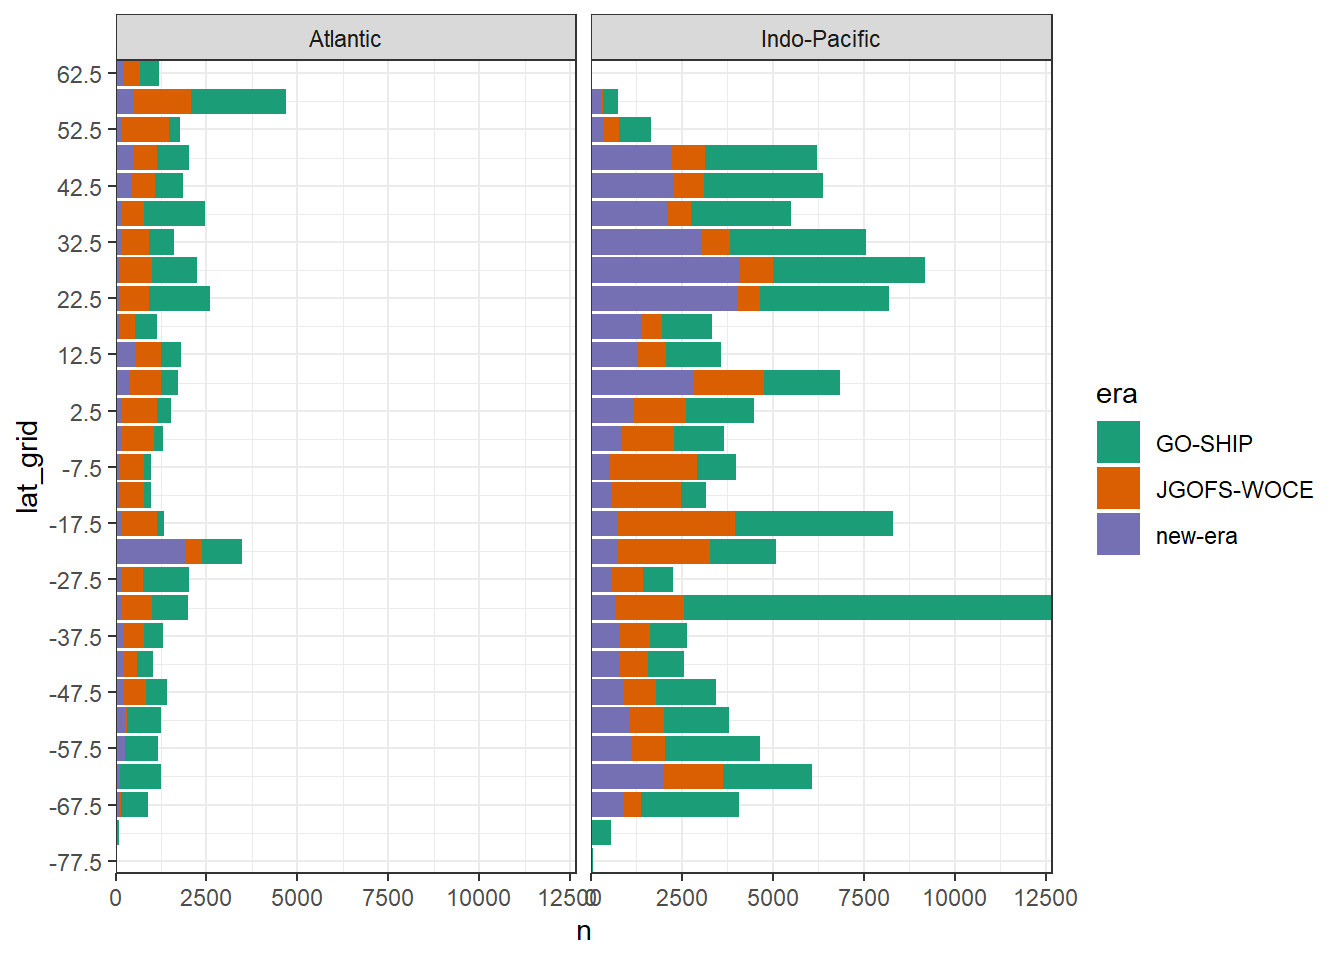
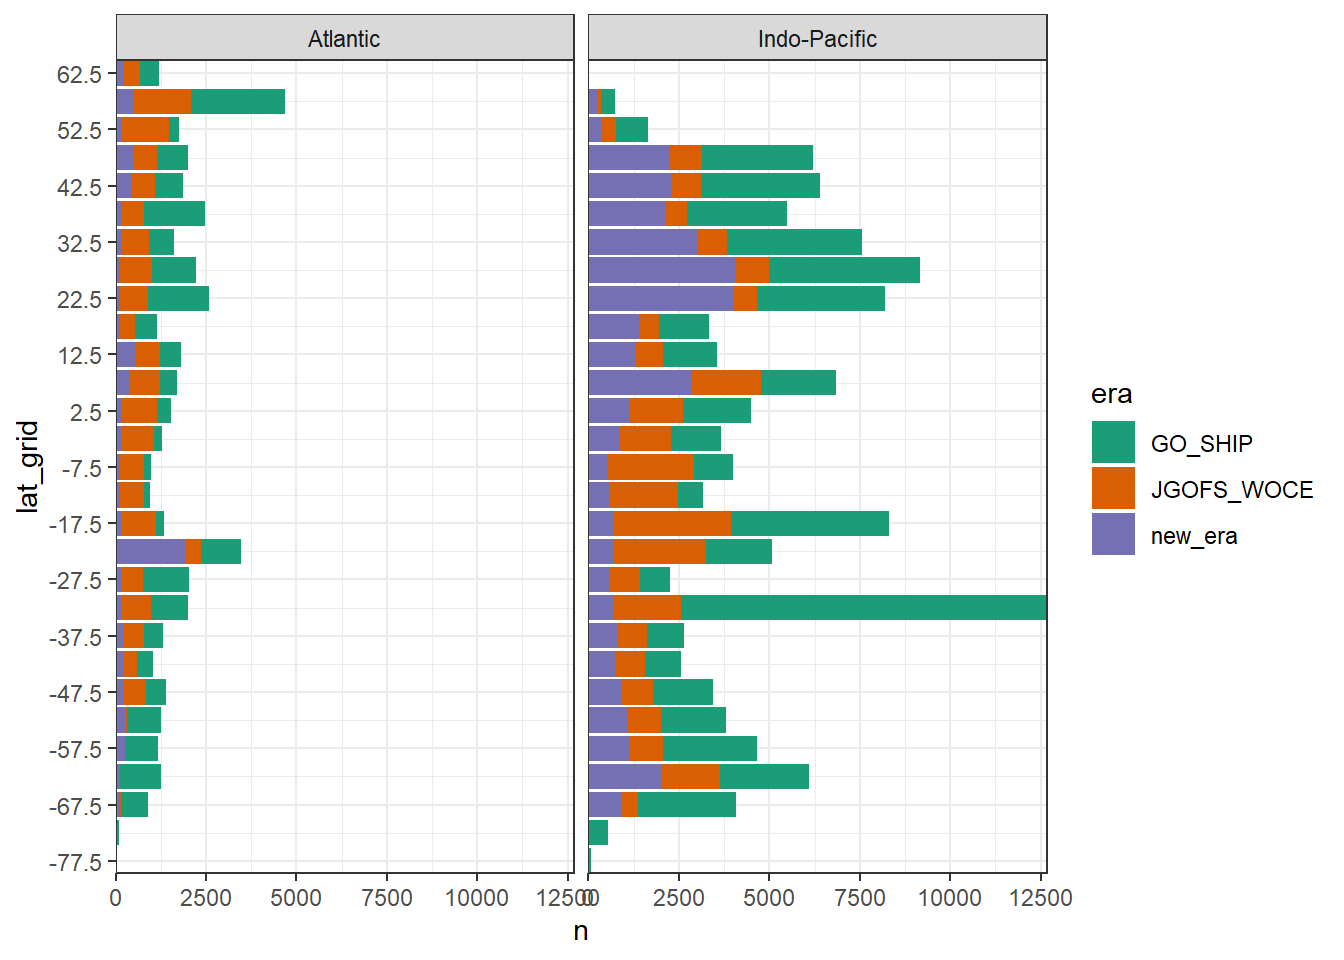
Build site.

diff --git a/docs/read_GLODAPv2_2020.html b/docs/read_GLODAPv2_2020.html
@@ -546,16 +546,16 @@ This reproducible <a href="http://rmarkdown.rstudio.com">R Markdown</a> analysis
 <div class="panel panel-default">
 <div class="panel-heading">
 <p class="panel-title">
-<a data-toggle="collapse" data-parent="#workflowr-checks" href="#strongRepositoryversionstrongahrefhttpsgithubcomjensdanielmuellerCanteMLRtreefa350cf9d2defb458dac9bc331d7ebcbb37a0b8atargetblankfa350cfa"> <span class="glyphicon glyphicon-ok text-success" aria-hidden="true"></span> <strong>Repository version:</strong> <a href="https://github.com/jens-daniel-mueller/Cant_eMLR/tree/fa350cf9d2defb458dac9bc331d7ebcbb37a0b8a" target="_blank">fa350cf</a> </a>
+<a data-toggle="collapse" data-parent="#workflowr-checks" href="#strongRepositoryversionstrongahrefhttpsgithubcomjensdanielmuellerCanteMLRtree8d47b71d7a565d7de7bdc4ee5be39934a0fcd683targetblank8d47b71a"> <span class="glyphicon glyphicon-ok text-success" aria-hidden="true"></span> <strong>Repository version:</strong> <a href="https://github.com/jens-daniel-mueller/Cant_eMLR/tree/8d47b71d7a565d7de7bdc4ee5be39934a0fcd683" target="_blank">8d47b71</a> </a>
 </p>
 </div>
[2 lines of base64/hex data omitted]
 <div class="panel-body">
 <p>
 Great! You are using Git for version control. Tracking code development and connecting the code version to the results is critical for reproducibility.
 </p>
 <p>
-The results in this page were generated with repository version <a href="https://github.com/jens-daniel-mueller/Cant_eMLR/tree/fa350cf9d2defb458dac9bc331d7ebcbb37a0b8a" target="_blank">fa350cf</a>. See the <em>Past versions</em> tab to see a history of the changes made to the R Markdown and HTML files.
+The results in this page were generated with repository version <a href="https://github.com/jens-daniel-mueller/Cant_eMLR/tree/8d47b71d7a565d7de7bdc4ee5be39934a0fcd683" target="_blank">8d47b71</a>. See the <em>Past versions</em> tab to see a history of the changes made to the R Markdown and HTML files.
 </p>
 <p>
 Note that you need to be careful to ensure that all relevant files for the analysis have been committed to Git prior to generating the results (you can use <code>wflow_publish</code> or <code>wflow_git_commit</code>). workflowr only checks the R Markdown file, but you know if there are other scripts or data files that it depends on. Below is the status of the Git repository when the results were generated:
@@ -569,6 +569,9 @@ Ignored files:
     Ignored:    data/pCO2_atmosphere/
     Ignored:    dump/
     Ignored:    output/figure/
+
+Unstaged changes:
+    Modified:   analysis/eMLR.Rmd
 
 </code></pre>
 <p>
@@ -607,6 +610,40 @@ Message
 </tr>
 </thead>
 <tbody>
+<tr>
+<td>
+Rmd
+</td>
+<td>
+<a href="https://github.com/jens-daniel-mueller/Cant_eMLR/blob/8d47b71d7a565d7de7bdc4ee5be39934a0fcd683/analysis/read_GLODAPv2_2020.Rmd" target="_blank">8d47b71</a>
+</td>
+<td>
+jens-daniel-mueller
+</td>
+<td>
+2020-07-23
+</td>
+<td>
+era names changed
+</td>
+</tr>
+<tr>
+<td>
+html
+</td>
+<td>
+<a href="https://rawcdn.githack.com/jens-daniel-mueller/Cant_eMLR/2df206520e396a667c5aeaad9cb66268aa596172/docs/read_GLODAPv2_2020.html" target="_blank">2df2065</a>
+</td>
+<td>
+jens-daniel-mueller
+</td>
+<td>
+2020-07-23
+</td>
+<td>
+Build site.
+</td>
+</tr>
 <tr>
 <td>
 Rmd
@@ -1372,9 +1409,9 @@ GOSHIP &lt;- 2012</code></pre>
 </ul>
 <pre class="r"><code>GLODAP &lt;- GLODAP %&gt;%
   filter(year &gt;= start) %&gt;% 
-  mutate(era = &quot;JGOFS-WOCE&quot;,
-         era = if_else(year &gt; JGOFS, &quot;GO-SHIP&quot;, era),
-         era = if_else(year &gt; GOSHIP, &quot;new-era&quot;, era))</code></pre>
+  mutate(era = &quot;JGOFS_WOCE&quot;,
+         era = if_else(year &gt; JGOFS, &quot;GO_SHIP&quot;, era),
+         era = if_else(year &gt; GOSHIP, &quot;new_era&quot;, era))</code></pre>
 <pre class="r"><code># rm(start, JGOFS, GOSHIP)</code></pre>
 </div>
 <div id="basin-mask" class="section level2">
@@ -1494,7 +1531,7 @@ GLODAP_hovmoeller_year %&gt;%
 
 
 GLODAP &lt;- GLODAP %&gt;% 
-  mutate(era = factor(era, c(&quot;JGOFS-WOCE&quot;, &quot;GO-SHIP&quot;, &quot;new-era&quot;)))
+  mutate(era = factor(era, c(&quot;JGOFS_WOCE&quot;, &quot;GO_SHIP&quot;, &quot;new_era&quot;)))
 
 GLODAP %&gt;%
   ggplot(aes(lon, lat))+
